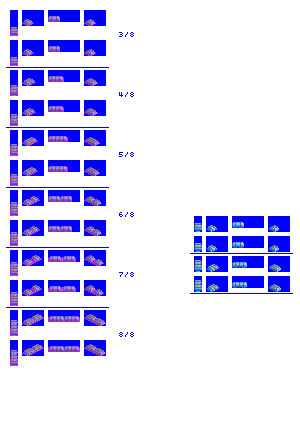
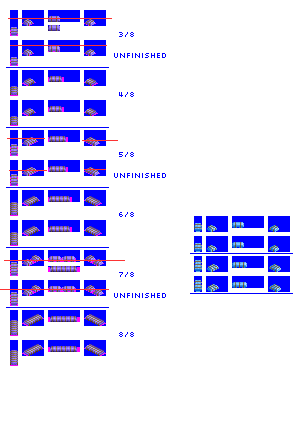
Change: improve 4/8, 6/8, 8/8 tarpaulin sprites, and change default tarp to grey to avoid conflict with most company colours

diff --git a/src/constants.py b/src/constants.py
@@ -198,14 +198,14 @@ cargo_spritesheet_bounding_boxes_base = ((10, 10, 18, 36), (22, 10, 44, 26), (48
 # 2. this permits fine-grained control, e.g. cargos that can only go in open vehicles, outsized cargo that needs flats etc
 # also supports multiple cargo sprite types to suit vehicle, e.g. piled fruit, fruit in crates etc
 # keep alphabetised for general quality-of-life
-piece_vehicle_type_to_sprites_maps = {'coil': ['copper_coils_eye_longitudinal', 'steel_coils_eye_longitudinal', 'tarps_2cc_1'], # tarps_2cc_1 for DFLT
+piece_vehicle_type_to_sprites_maps = {'coil': ['copper_coils_eye_longitudinal', 'steel_coils_eye_longitudinal', 'tarps_grey_1'], # tarps_grey_1 for DFLT
                                       'flat': ['barrels_silver', 'copper_coils_eye_to_sky', 'crates_1', 'logs',
                                               'lumber_planks', 'paper_coils_eye_to_sky', 'steel_coils_eye_to_sky',
-                                              'tarps_2cc_1', 'tarps_blue_1', 'tarps_gold_1', 'tarps_red_1'],
+                                              'tarps_grey_1', 'tarps_blue_1', 'tarps_gold_1', 'tarps_red_1'],
                                       'open':['barrels_silver', 'coffee', 'copper_coils_eye_to_sky', 'crates_1', 'fruit', 'logs',
                                               'lumber_planks', 'nuts', 'paper_coils_eye_to_sky', 'steel_coils_eye_to_sky',
-                                              'tarps_2cc_1', 'tarps_blue_1', 'tarps_gold_1', 'tarps_red_1'],
-                                      'stake':['logs', 'lumber_planks', 'tarps_2cc_1'] # tarps_2cc_1 for DFLT
+                                              'tarps_grey_1', 'tarps_blue_1', 'tarps_gold_1', 'tarps_red_1'],
+                                      'stake':['logs', 'lumber_planks', 'tarps_grey_1'] # tarps_grey_1 for DFLT
                                       }
 
 # cargo labels can be repeated for different sprites, they'll be used selectively by vehicle types and/or randomised as appropriate
@@ -226,7 +226,7 @@ piece_sprites_to_cargo_labels_maps = {'barrels_silver': ['BEER', 'DYES', 'EOIL',
                                       'tarps_blue_1': ['FMSP'],
                                       'tarps_gold_1': ['ENSP'],
                                       'tarps_red_1': ['BDMT'],
-                                      'tarps_2cc_1': ['DFLT']}  # see note on use of DFLT above
+                                      'tarps_grey_1': ['DFLT']}  # see note on use of DFLT above
 
 # Tanker recolour maps
 # DFLT label is a hack to support cargos with no specific sprites (including unknown cargos), and should not be added to cargo translation table

diff --git a/src/render_cargo_graphics.py b/src/render_cargo_graphics.py
@@ -24,9 +24,10 @@ black = 1
 piece_cargo_graphics_maps = [("tarps_1", "tarps_blue_1",
                              {136: 145, 137: 146, 138: 147, 139: 148,
                              140: 149, 141: 150, 142: 151, 143: 152}),
-                             ("tarps_1", "tarps_2cc_1",
-                             {136: 198, 137: 199, 138: 200, 139: 201,
-                             140: 202, 141: 203, 142: 204, 143: 205}),
+                             # simple grey for default, avoids conflicts with most CC
+                             ("tarps_1", "tarps_grey_1",
+                             {136: 16, 137: 17, 138: 18, 139: 19,
+                             140: 20, 141: 21, 142: 22, 143: 23}),
                              ("tarps_1", "tarps_gold_1",
                              {136: 60, 137: 61, 138: 62, 139: 63,
                              140: 64, 141: 65, 142: 66, 143: 67}),
